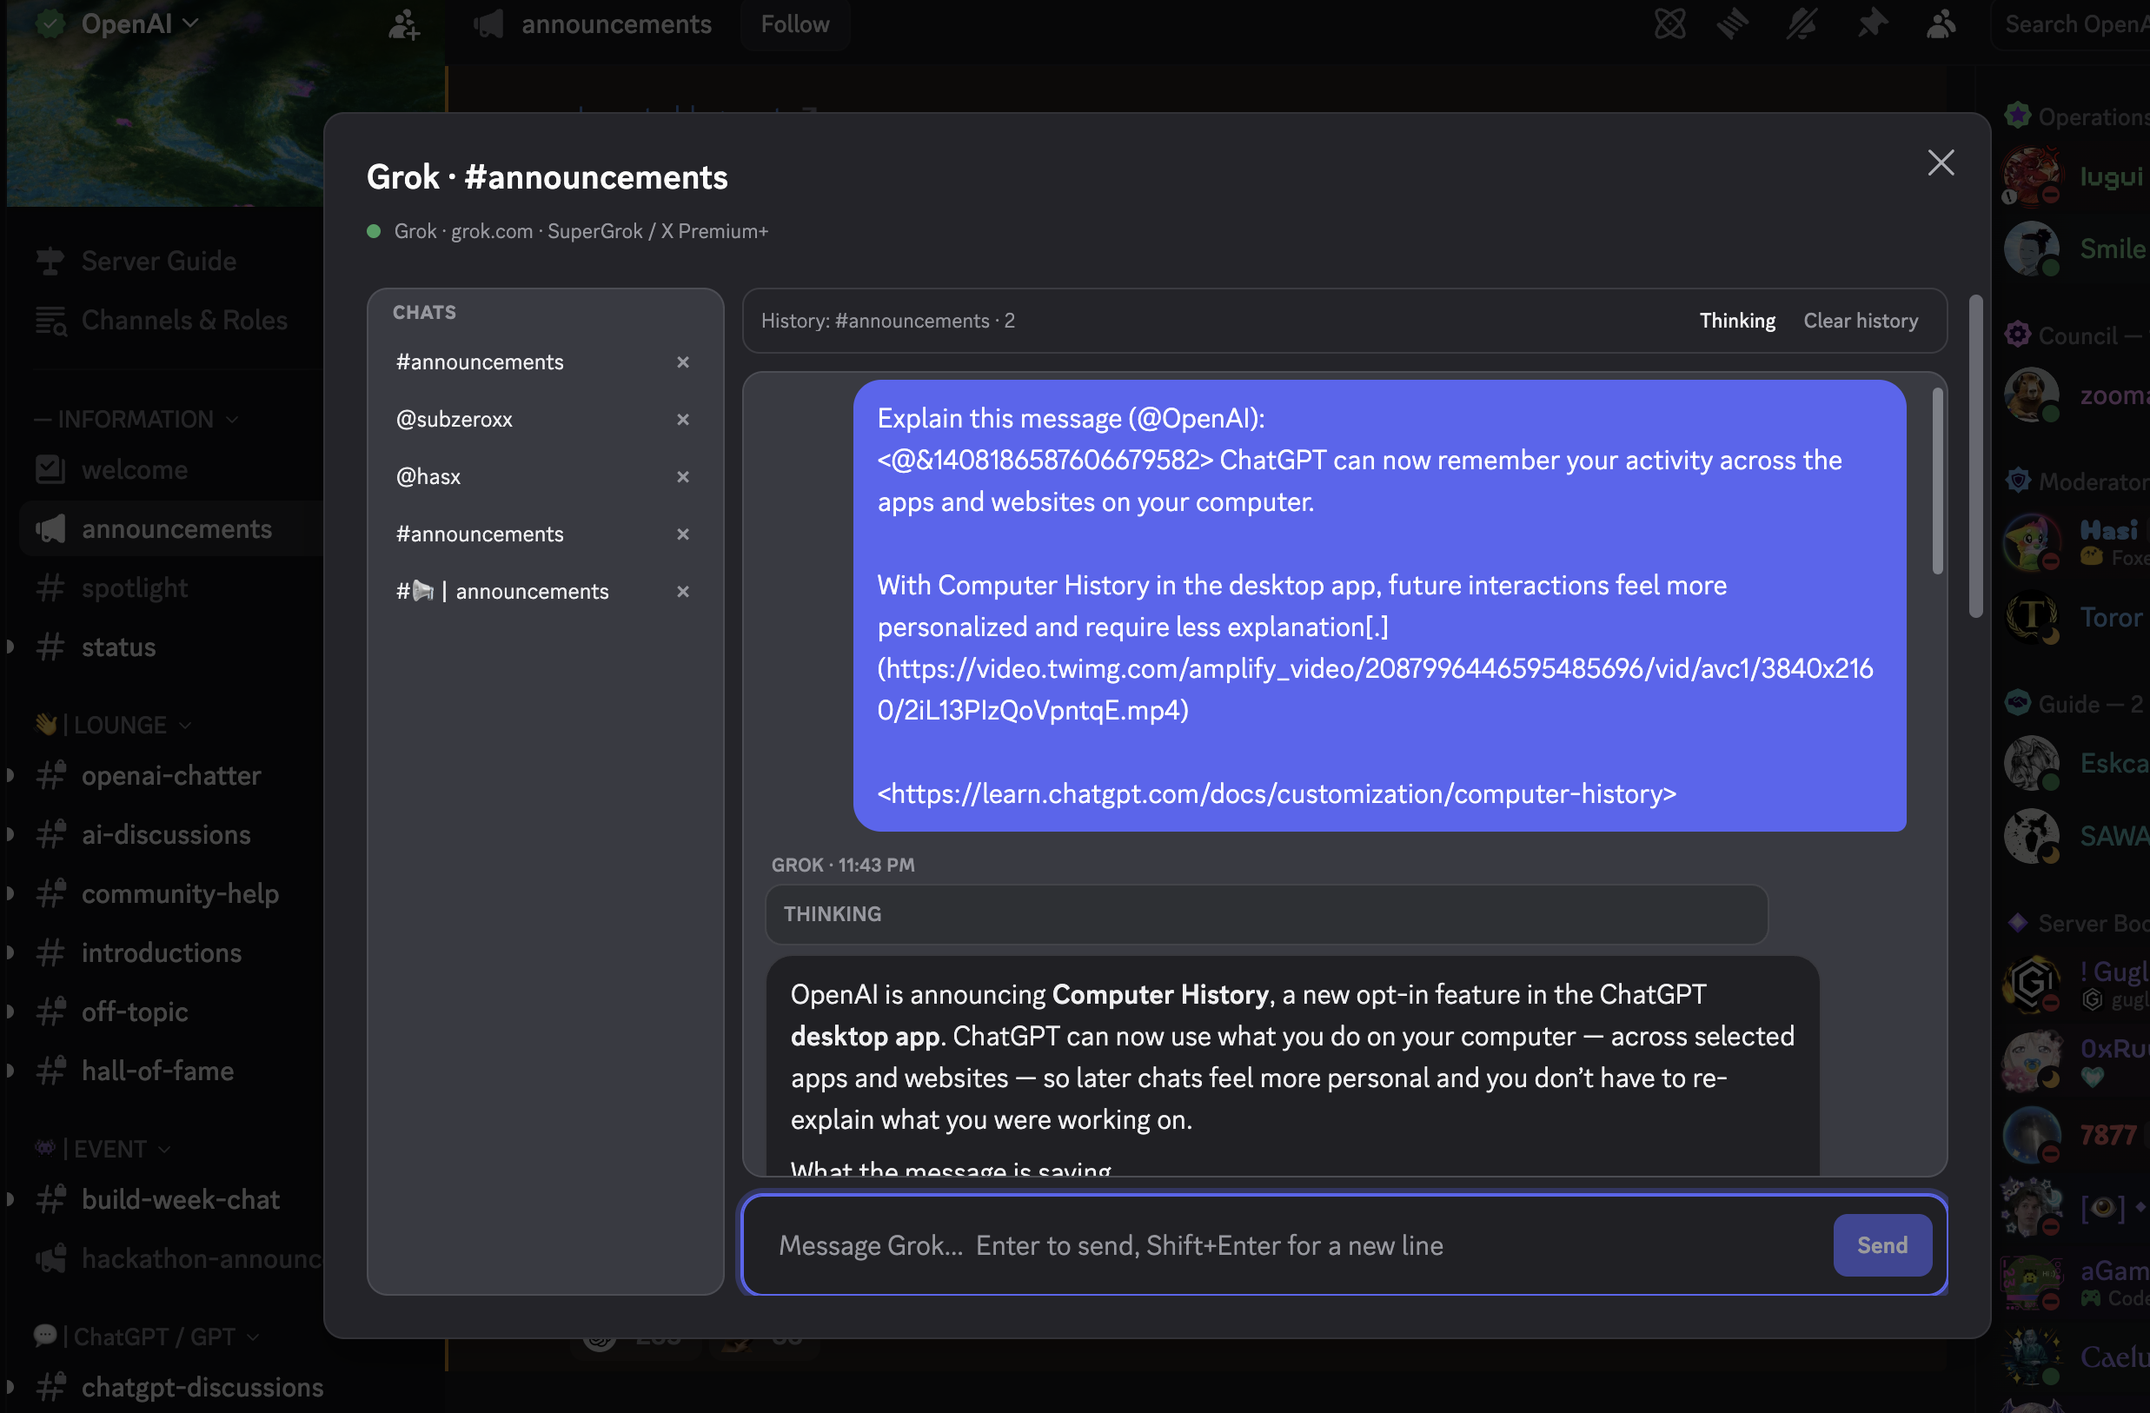
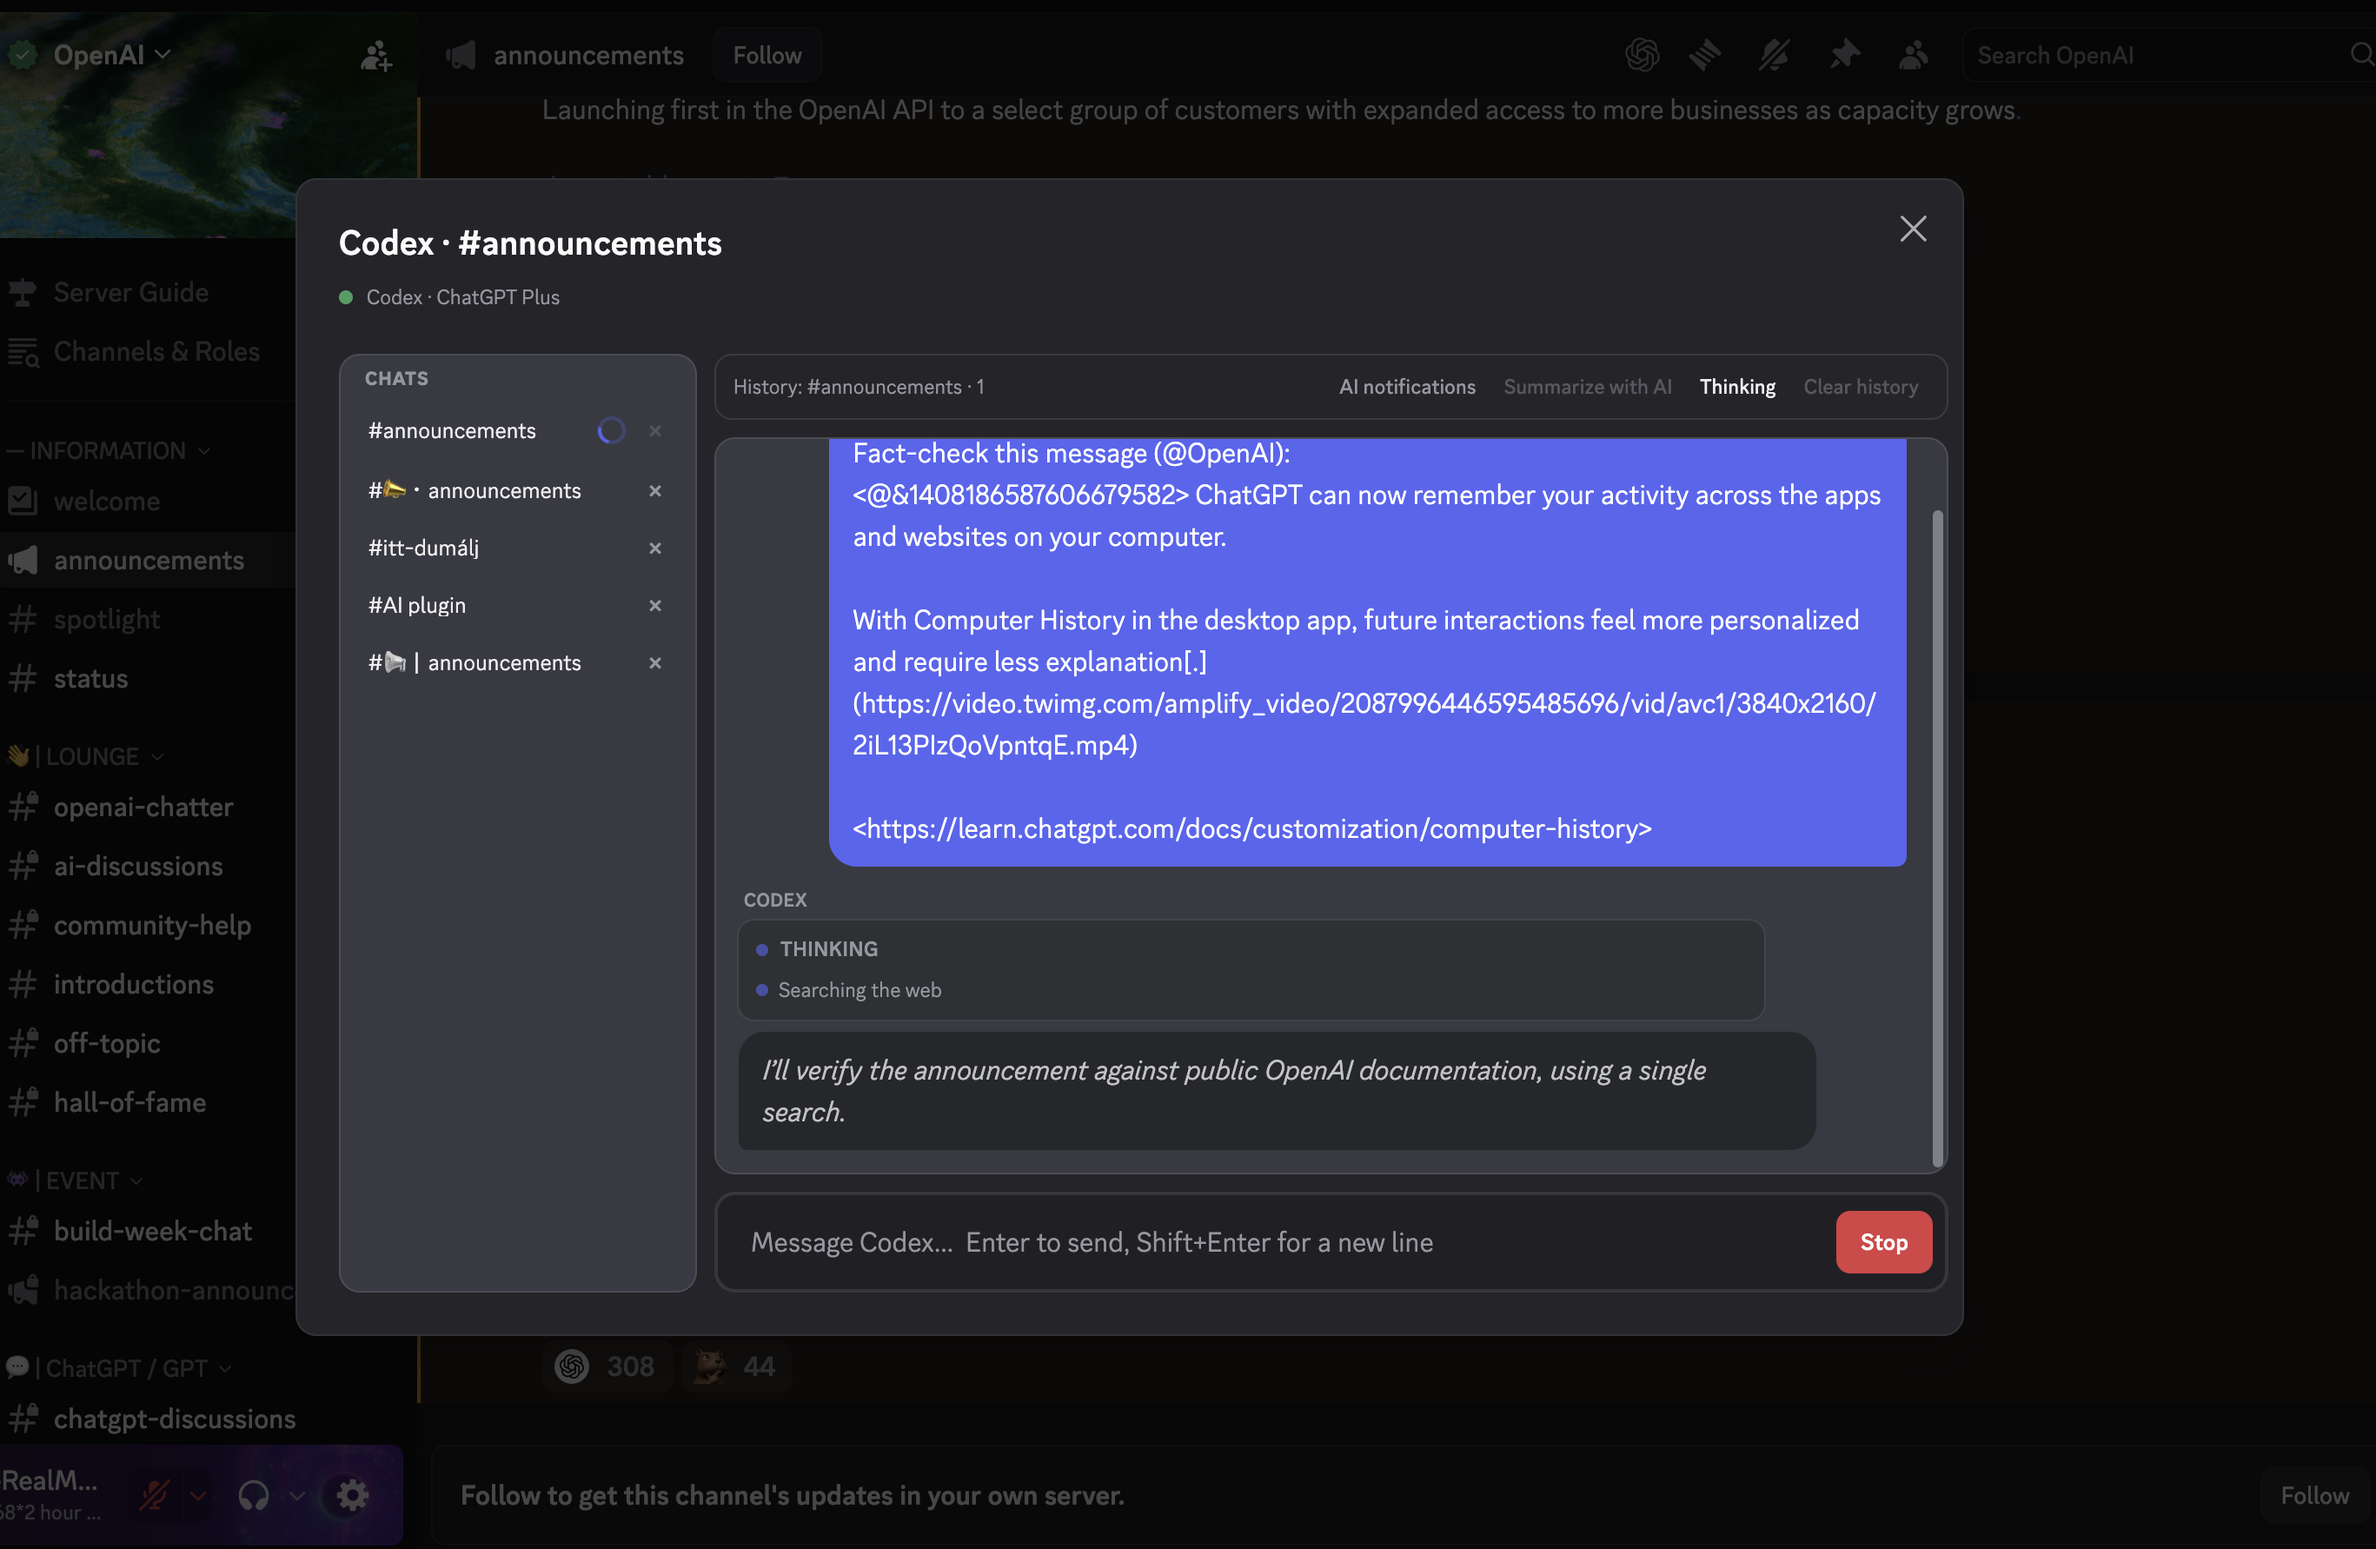
screenshots

diff --git a/docs/screenshots/README.md b/docs/screenshots/README.md
@@ -4,16 +4,16 @@ Used on the [main README](../../README.md).
 
 Save new files here with these exact names (PNG, Discord dark theme, crop tight, no tokens / emails).
 
-| File | Shown as | Status |
-| --- | --- | --- |
-| `chat-bar.png` | Chat bar AI button | In README |
-| `chat-window.png` | AI chat window (sidebar, history, thinking) | In README |
-| `explain.png` | Explain / Fact-check with AI | In README |
-| `settings.png` | Plugin settings | In README |
-| `server-list.png` | Bell under Direct Messages | Add this file |
-| `draft-reply.png` | Draft a reply + Insert into chat | Add this file |
-| `summarize.png` | Channel / DM Summarize with AI menu | Add this file |
-| `notifications.png` | AI notification center briefing | Add this file |
+| File                | Shown as                                    | Status        |
+| ------------------- | ------------------------------------------- | ------------- |
+| `chat-bar.png`      | Chat bar AI button                          | In README     |
+| `chat-window.png`   | AI chat window (sidebar, history, thinking) | In README     |
+| `explain.png`       | Explain / Fact-check with AI                | In README     |
+| `settings.png`      | Plugin settings                             | In README     |
+| `server-list.png`   | Bell under Direct Messages                  | Add this file |
+| `draft-reply.png`   | Draft a reply + Insert into chat            | Add this file |
+| `summarize.png`     | Channel / DM Summarize with AI menu         | Add this file |
+| `notifications.png` | AI notification center briefing             | Add this file |
 
 ## What to capture
 
